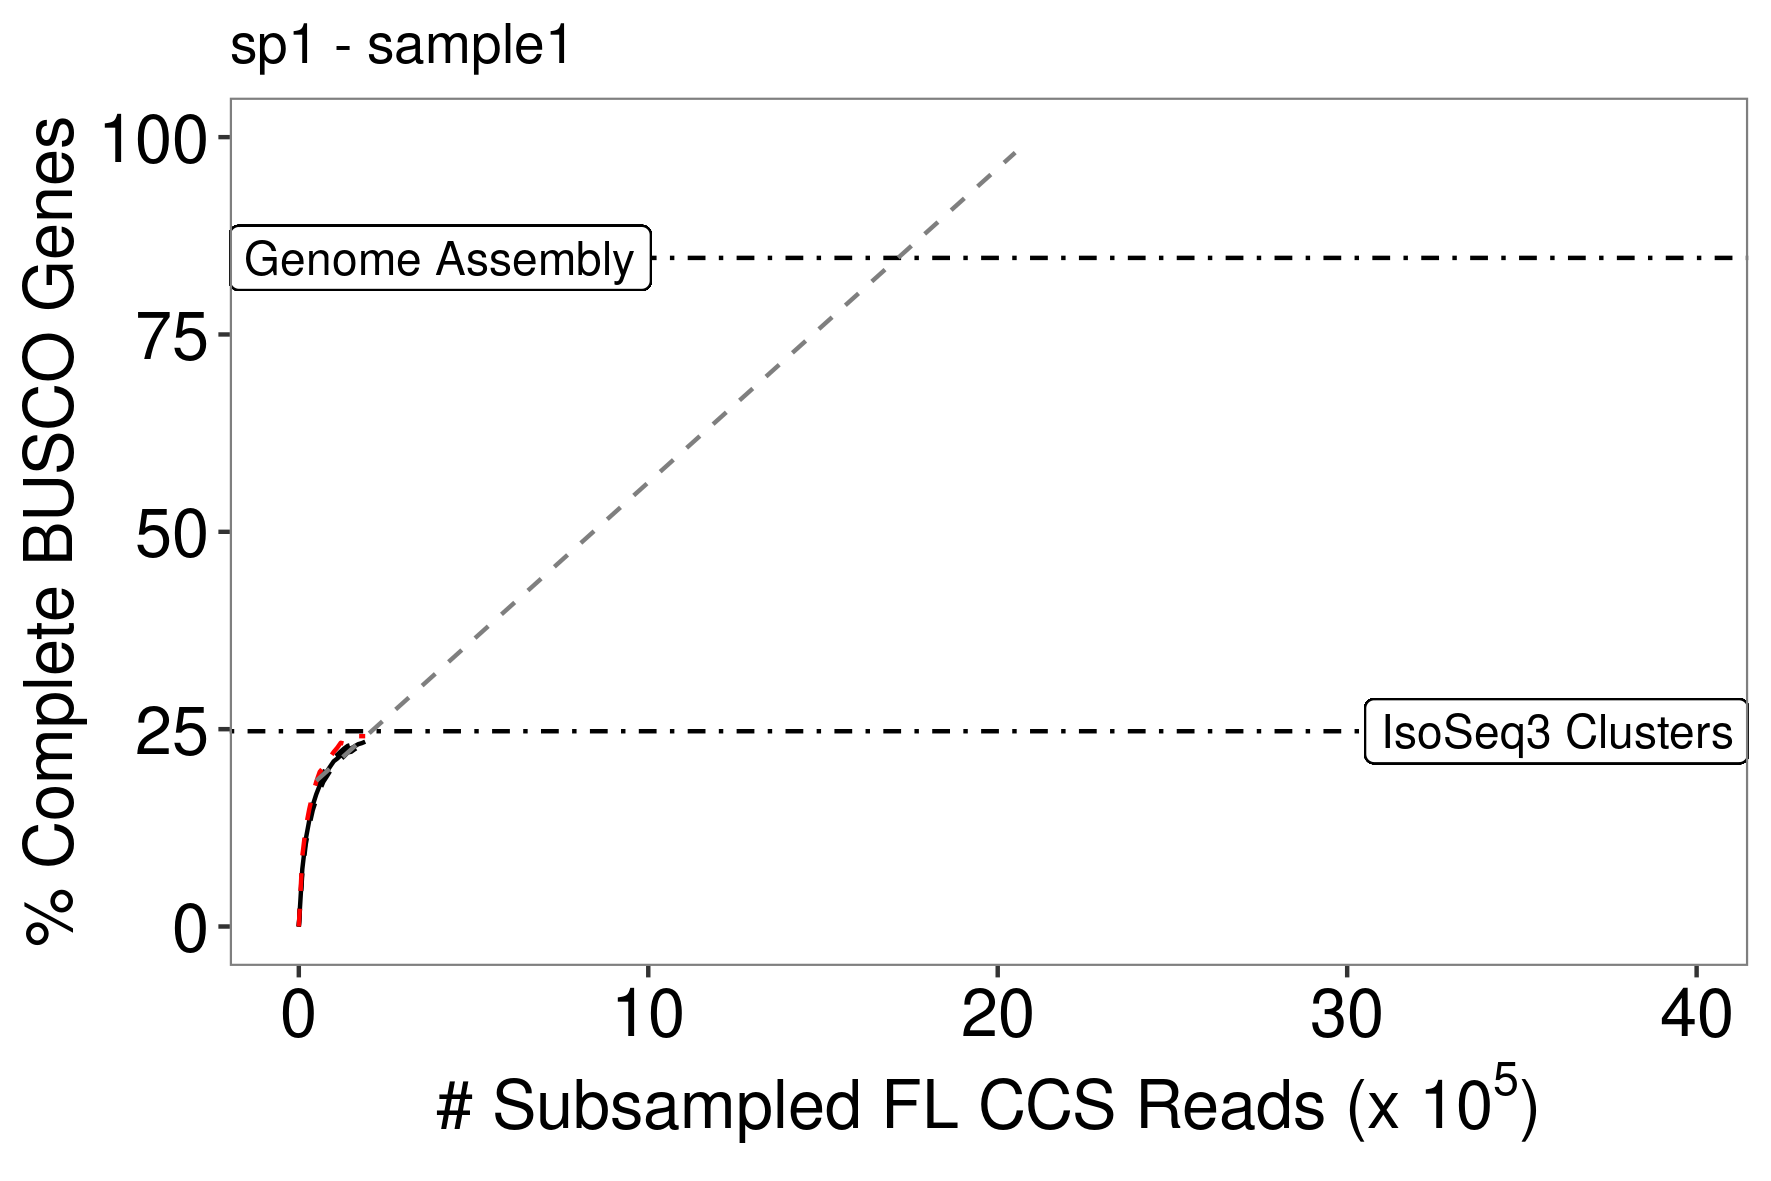
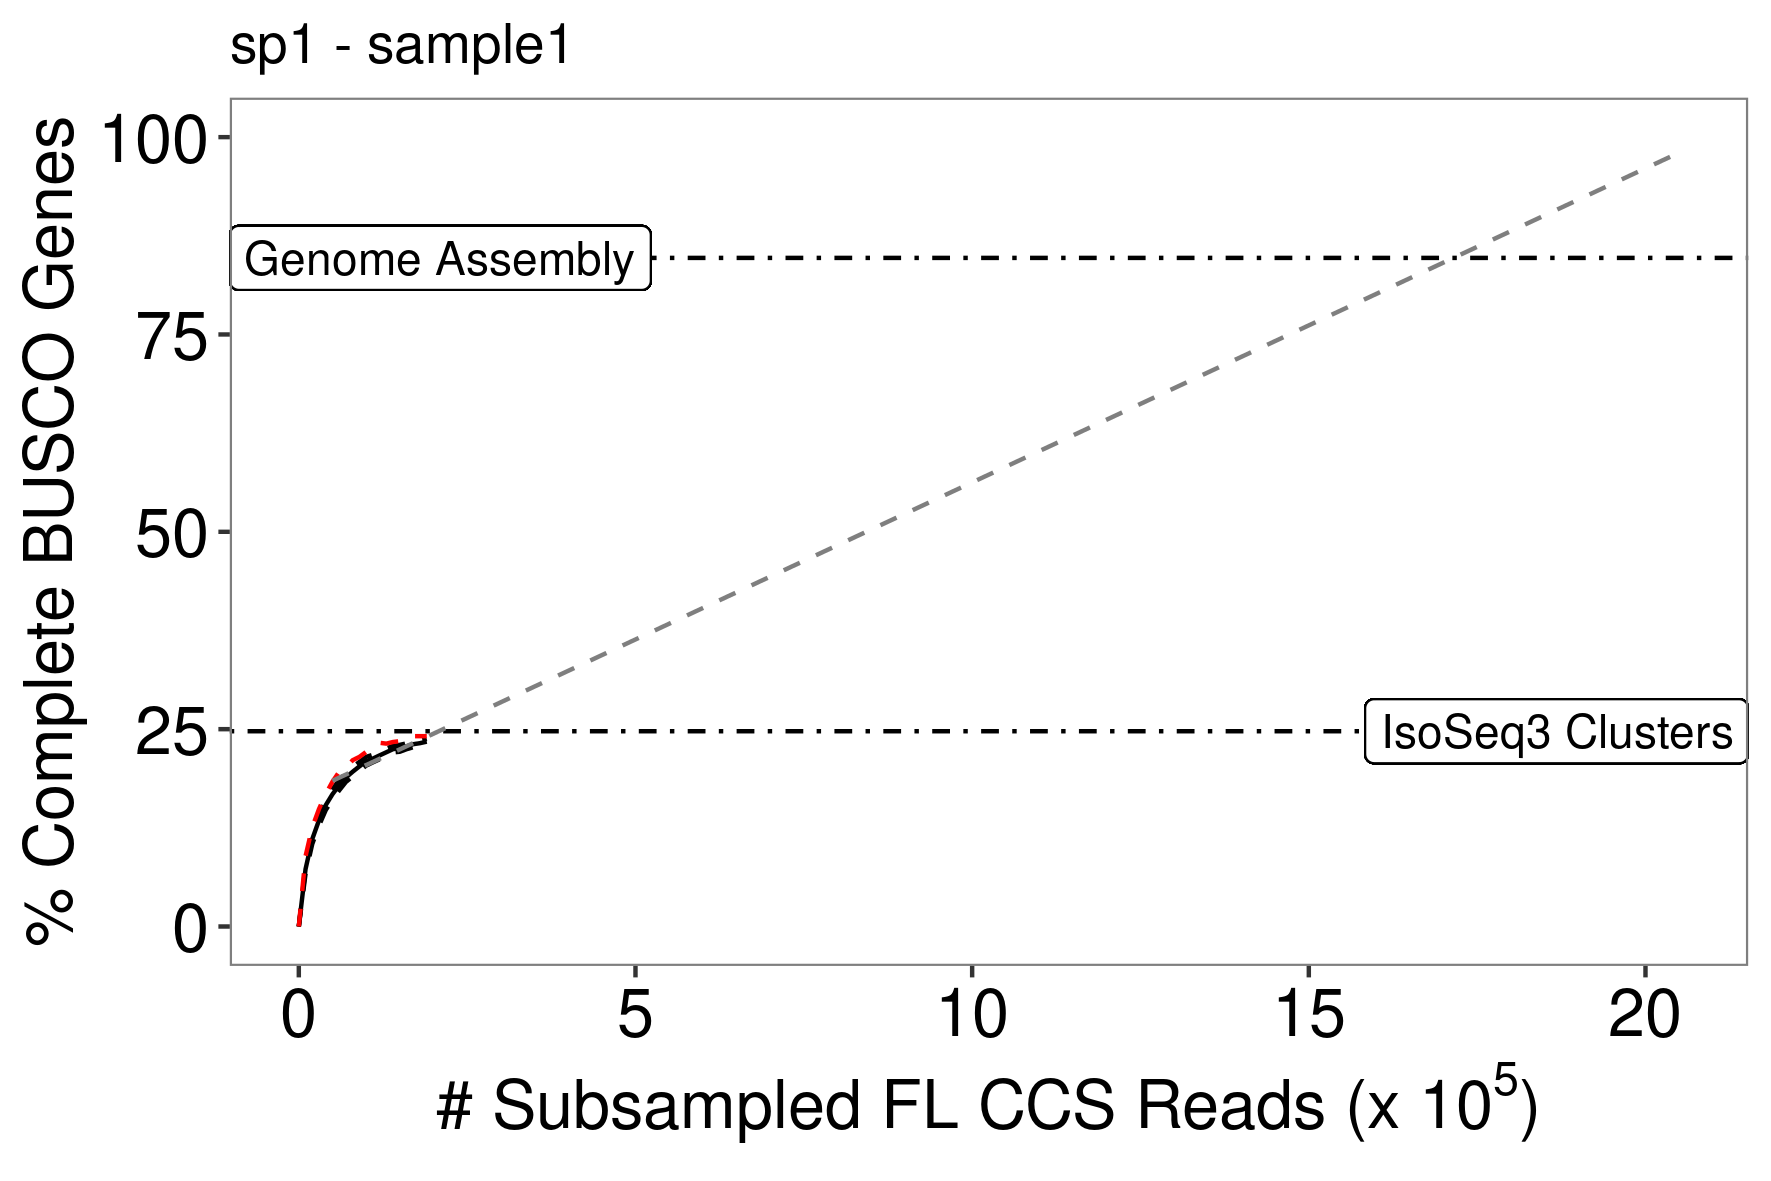
Update: 15.12.2020

diff --git a/README.md b/README.md
@@ -26,11 +26,11 @@ We can zoom in on the data for samples with >200,000 reads to see that the trend
 
 ![fig2][fig2]
 
-If we fit a regression line to that data, and extrapolate out to 4 million CCS reads. We obtain the following figure.
+If we fit a regression line to that data, and extrapolate out to how many reads we need to cross 100% BUSCO genes, we obtain the following figure.
 
 ![fig3][fig3]
 
-Where the grey dashed line charts the extrapolations from the regression model. Only at ~4 million CCS reads does it cross the threshhold for the genome assembly.
+Where the grey dashed line charts the extrapolations from the regression model. Only at ~1.5-1.8 million CCS reads does it cross the threshhold for the genome assembly.
 
 We can test this intuition if we produce more Iso-Seq data. Which is what I did here. I obtained the above results with a sample that was run on a single 1M SMRT cell on the Sequel system. This produced 200,662 CCS reads represented the final set of high quality transcripts. We subsequently ran the same sample on an 8M SMRT cell on the Sequel II system to produce an total of 923,429 CCS (i.e. an additional 772,767 CCS reads). So I now run the same procedure as above and ask how many BUSCO genes do I recover using the full set of ~920000 CCS reads. 
 
